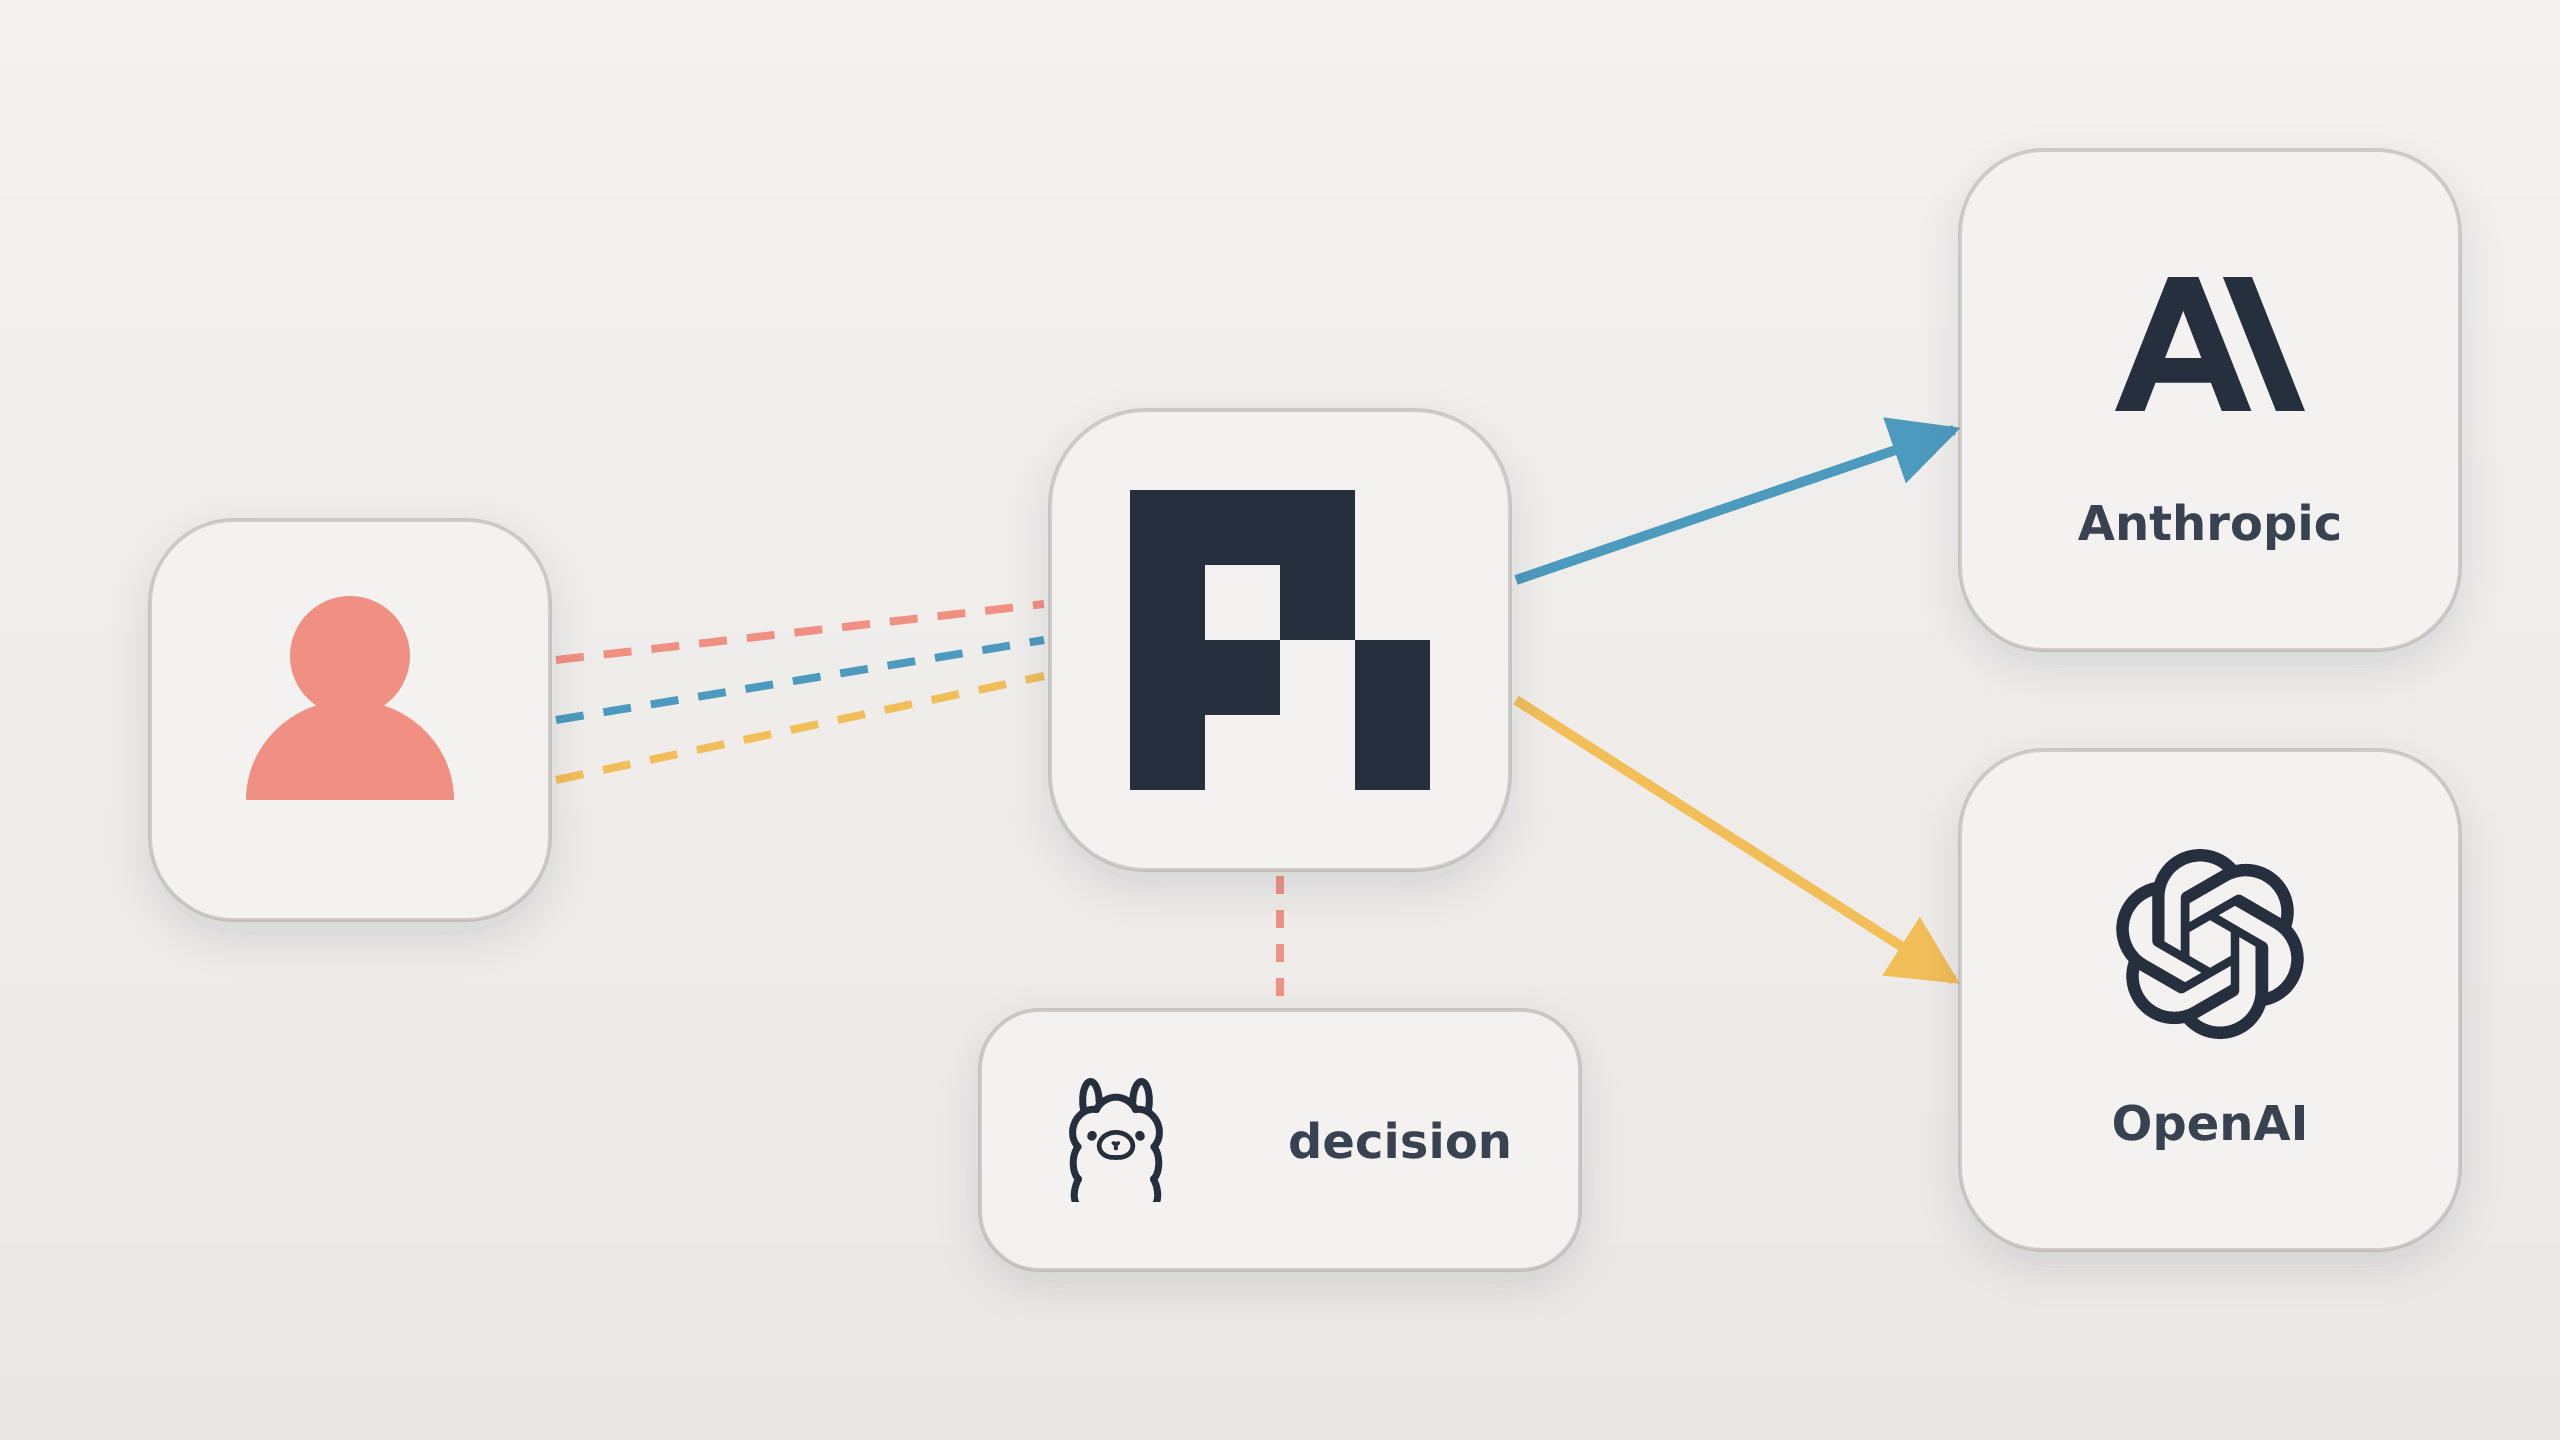
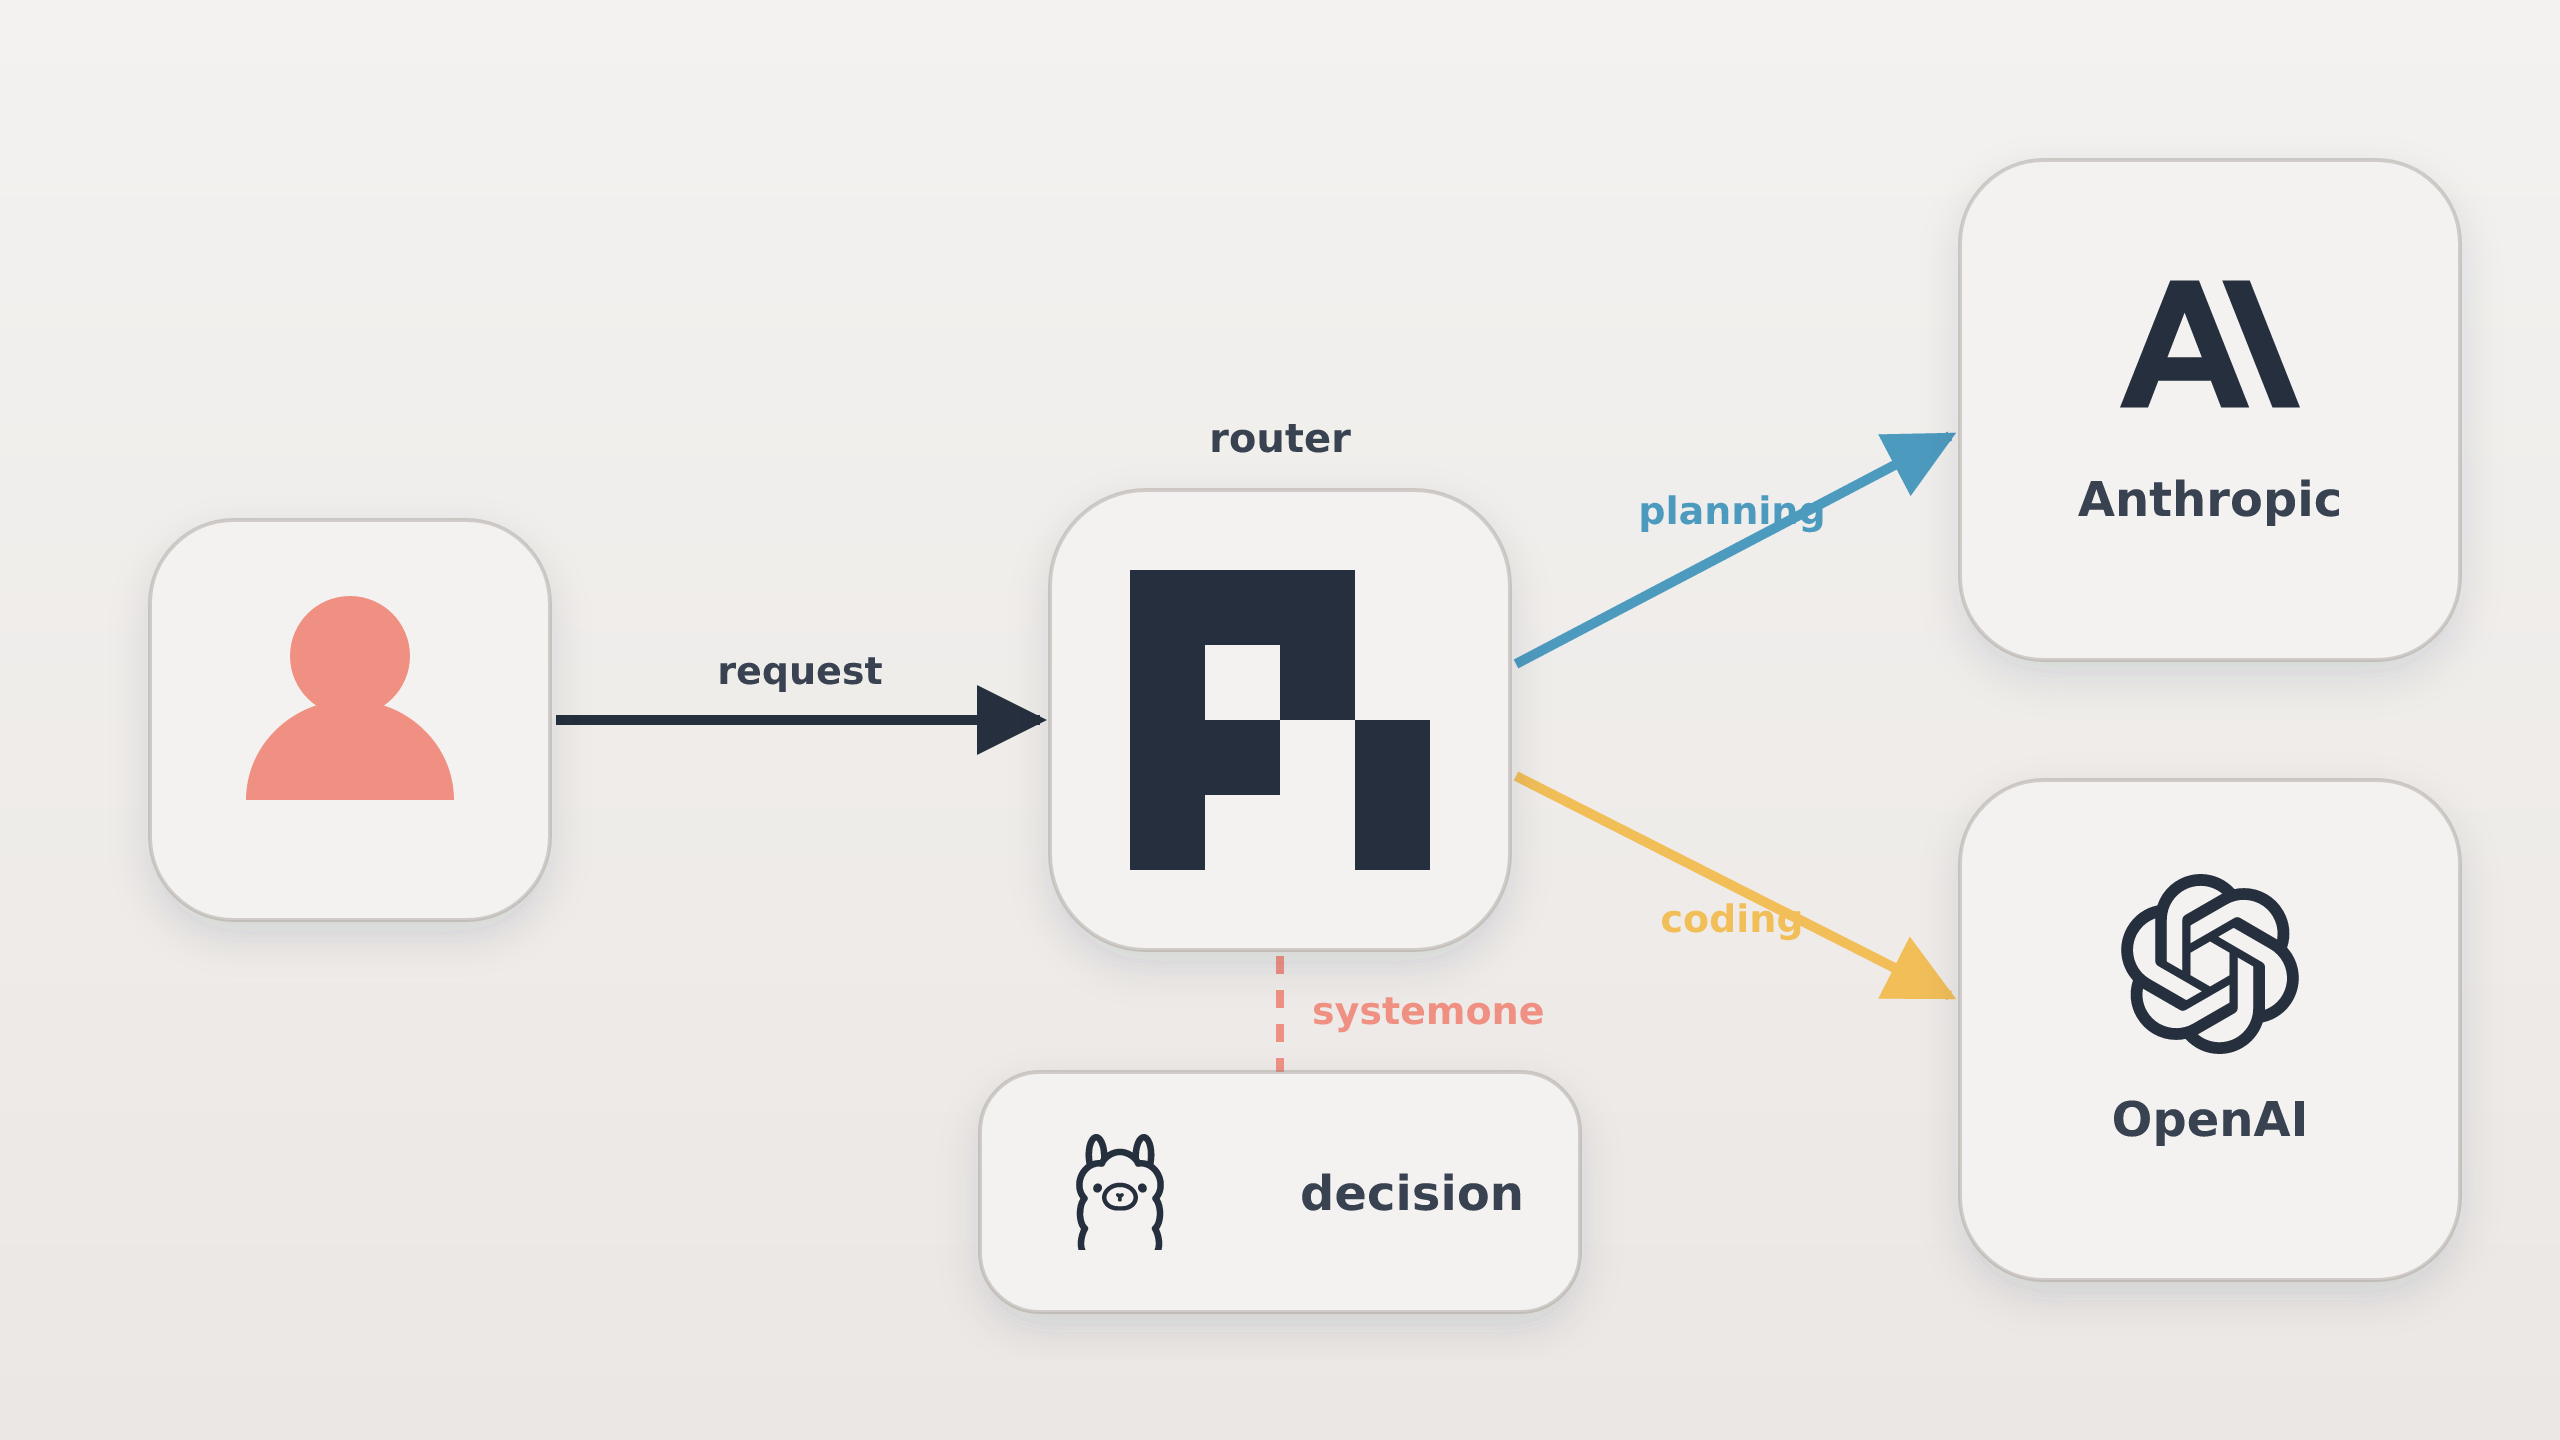
docs: single request line, aligned nodes, labeled lines and nodes in relay diagram

diff --git a/src/content/posts/pi-virtual-model-relay.md b/src/content/posts/pi-virtual-model-relay.md
@@ -16,7 +16,7 @@ description: "Using Pi's virtual model API and a small System One decision model
 
 A coding agent's work on a change usually has two parts. First it finds its way around: it reads files, works out where the change goes, maybe writes a plan. Then it writes the change. I've been trying an idea in [Pi](https://github.com/earendil-works/pi), the coding agent I use in my terminal: let Claude Opus (`claude-opus-5-5`) do the first part, let OpenAI's Sol (`gpt-6.2-sol`) do the second, and let a small local model decide when to switch. It started because I wanted to use more than one LLM provider and avoid any single model's blind spots.
 
-![Illustration in the pi.dev light theme with the Pi logo accent colors: a user icon sends streaming requests to the regular Pi logo router, which routes them to the Anthropic and OpenAI logos, with the Ollama logo labeled decision below](@/assets/images/pi-virtual-model-relay.svg)
+![Diagram in the pi.dev light theme with the Pi logo accent colors: a user icon sends one request line to the regular Pi logo labeled router, which routes planning to the Anthropic logo and coding to the OpenAI logo, with a systemone decision model on the Ollama logo below](@/assets/images/pi-virtual-model-relay.svg)
 
 Doing that switch by hand is a chore. I'd have to watch the agent read file after file just to catch the moment before it starts editing.
 
